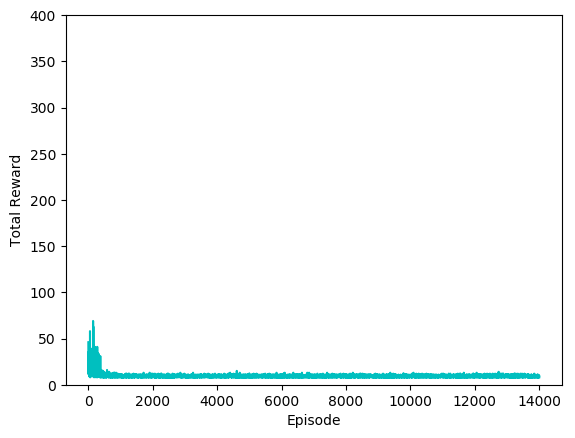
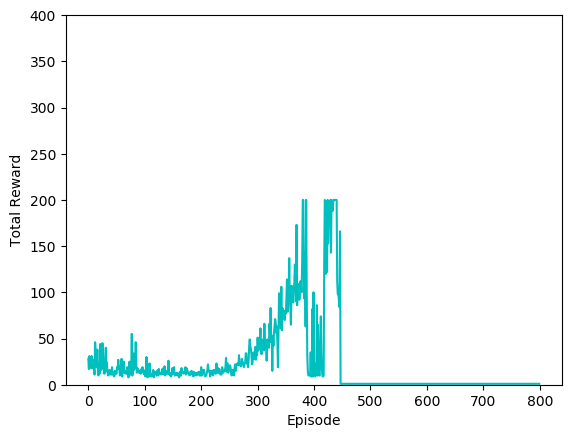
Revert everything into Keras, make sure we can converge

Changed region(s): [[0.1478, 0.4452, 0.9757, 0.9498]]

diff --git a/dqn/components/agent.py b/dqn/components/agent.py
@@ -4,7 +4,7 @@ import numpy as np
 from torch import Tensor, LongTensor
 
 from components.memory import ExperienceReplayBuffer
-from components.brain import Brain
+from components.brain import Brain, Keras_Brain
 
 GAMMA = 0.99
 EPSILON_START = 1.0
@@ -26,7 +26,7 @@ class Agent:
     self.use_target = True
     self.learning_rate = config['learning_rate']
 
-    self.brain = Brain(num_states, num_actions, config)
+    self.brain = Keras_Brain(num_states, num_actions, config)
     self.memory = ExperienceReplayBuffer(MEMORY_CAPACITY)
 
   @staticmethod
@@ -43,6 +43,10 @@ class Agent:
       random_action = random.randrange(self.num_actions)
       return random_action
     else:
+      q_val_per_action = self.brain.predict_one(state)
+      return np.argmax(q_val_per_action)
+    '''
+    else:
       current_state = Tensor(state).unsqueeze(0)
       q_val_per_action = self.brain.main_network(current_state)
       # recall that max() returns tuple of (max_value, max_index)
@@ -51,12 +55,90 @@ class Agent:
 
   def observe(self, *episode):
     self.memory.remember(*episode)  #(s, a, r, s') + done
+    '''
 
-    if self.use_target and (self.steps % UPDATE_TARGET_FREQUENCY == 0):
+  def observe(self, episode):
+    self.memory.keras_remember(episode)  #(s, a, r, s') + done
+
+    if self.steps % UPDATE_TARGET_FREQUENCY == 0:
         self.brain.update_target_network()
 
     self.steps += 1.0   # anneal epsilon
     self.epsilon = EPSILON_END + (EPSILON_START - EPSILON_END) * math.exp(-self.steps / EPSILON_DECAY)
+
+  # Q(s, a) = reward + GAMMA * argmax[ Q(s', a) ]
+  # Note how the formula requires Q-scores for current and next state
+
+  # In a neural network, each Q-score is actually a vector of numbers
+  # where the dimension = (1 x num_actions)
+
+  def keras_learn(self):
+    batch = self.memory.keras_get_batch(BATCH_SIZE)
+
+    batch_length = len(batch)
+    # Q(s, a) predictions per action given the current state
+    current_states = np.array([ o[0] for o in batch ])
+    predicted_Q_score = self.brain.predict(current_states)
+    # Q(s', a) predictions per action given the next state
+    empty = np.zeros(self.num_states)
+    next_states = np.array([ (empty if o[3] is None else o[3]) for o in batch ])
+    # double_Q_score = self.brain.predict(next_states, target=False)
+    future_Q_score = self.brain.predict(next_states, target=self.use_target)
+
+    # the inputs into our neural network, which are the set of states
+    x = np.zeros((batch_length, self.num_states))
+    # the target labels we want to predict, which are the set of actions
+    y = np.zeros((batch_length, self.num_actions))
+    # Errors used for calculating priority experience replay
+    errors = np.zeros(batch_length)
+
+    for idx, episode in enumerate(batch):
+      current_state, action, reward, next_state = episode
+      # by default we are correct, so initialize our target to be our prediction
+      targets = predicted_Q_score[idx]
+      old_value = targets[action]
+      # we have an actual reward signal for one particular action
+      # so update the target Q-score for that specific action
+      if next_state is None:
+        # then game_over, so no future reward
+        targets[action] = reward
+      elif self.name == 'double_dqn':
+        selected_action = np.argmax(double_Q_score[idx])
+        targets[action] = reward + GAMMA * future_Q_score[idx][ selected_action ]
+      else:
+        # current reward plus discounted future reward
+        targets[action] = reward + GAMMA * np.amax(future_Q_score[idx])
+
+      x[idx] = current_state
+      y[idx] = targets  # Q-scores per action
+      errors[idx] = abs(targets[action] - old_value)
+
+    self.brain.train(x, y)
+
+    return (x, y, errors)
+    '''
+    for idx, episode in enumerate(batch):
+      current_state, action, reward, next_state = episode
+      # we have an actual reward signal for one particular action
+      # so update the target Q-score for that specific action
+      if next_state is None:
+        # then game_over, so no future reward
+        target = reward
+      elif self.name == 'double_dqn':
+        selected_action = np.argmax(double_Q_score[idx])
+        target = reward + GAMMA * future_Q_score[idx][ selected_action ]
+      else:
+        # current reward plus discounted future reward
+        target = reward + GAMMA * np.amax(future_Q_score[idx])
+
+      x[idx] = current_state
+      # the label is the same as your predicted Q-scores per action
+      y[idx] = predicted_Q_score[idx]
+      # except that for the particular action you took, you can have a more accurate
+      #   measure of the expected reward because you experienced that outcome
+      y[idx][action] = target
+      errors[idx] = abs(predicted_Q_score[idx][action] - target)
+    '''
 
   def learn(self):
     # Each item is a vector/array with length equal to batch size
@@ -94,79 +176,11 @@ class RandomActor:
   def act(self, s):
     return random.randint(0, self.num_actions-1)
 
-  def observe(self, *episode):  # in (s, a, r, s_) format
-    self.memory.remember(*episode)
+  # def observe(self, *episode):  # in (s, a, r, s_) format
+  #   self.memory.remember(*episode)
+  def observe(self, sample):
+    self.memory.keras_remember(sample)
 
   def learn(self):
     pass  # since this agent will always act randomly
 
-'''
-# Q(s, a) = reward + GAMMA * argmax[ Q(s', a) ]
-# Note how the formula requires Q-scores for current and next state
-
-# In a neural network, each Q-score is actually a vector of numbers
-# where the dimension = (1 x num_actions)
-
-def gather_targets(self, batch):
-  batch_length = len(batch)
-  # Q(s, a) predictions per action given the current state
-  current_states = np.array([ o[0] for o in batch ])
-  predicted_Q_score = self.brain.predict(current_states)
-  # Q(s', a) predictions per action given the next state
-  empty = np.zeros(self.num_states)
-  next_states = np.array([ (empty if o[3] is None else o[3]) for o in batch ])
-  # double_Q_score = self.brain.predict(next_states, target=False)
-  future_Q_score = self.brain.predict(next_states, target=self.use_target)
-
-  # the inputs into our neural network, which are the set of states
-  x = np.zeros((batch_length, self.num_states))
-  # the target labels we want to predict, which are the set of actions
-  y = np.zeros((batch_length, self.num_actions))
-  # Errors used for calculating priority experience replay
-  errors = np.zeros(batch_length)
-
-  for idx, episode in enumerate(batch):
-    current_state, action, reward, next_state = episode
-    # by default we are correct, so initialize our target to be our prediction
-    targets = predicted_Q_score[idx]
-    old_value = targets[action]
-    # we have an actual reward signal for one particular action
-    # so update the target Q-score for that specific action
-    if next_state is None:
-      # then game_over, so no future reward
-      targets[action] = reward
-    elif self.name == 'double_dqn':
-      selected_action = np.argmax(double_Q_score[idx])
-      targets[action] = reward + GAMMA * future_Q_score[idx][ selected_action ]
-    else:
-      # current reward plus discounted future reward
-      targets[action] = reward + GAMMA * np.amax(future_Q_score[idx])
-
-    x[idx] = current_state
-    y[idx] = targets  # Q-scores per action
-    errors[idx] = abs(targets[action] - old_value)
-
-  return (x, y, errors)
-
-  for idx, episode in enumerate(batch):
-    current_state, action, reward, next_state = episode
-    # we have an actual reward signal for one particular action
-    # so update the target Q-score for that specific action
-    if next_state is None:
-      # then game_over, so no future reward
-      target = reward
-    elif self.name == 'double_dqn':
-      selected_action = np.argmax(double_Q_score[idx])
-      target = reward + GAMMA * future_Q_score[idx][ selected_action ]
-    else:
-      # current reward plus discounted future reward
-      target = reward + GAMMA * np.amax(future_Q_score[idx])
-
-    x[idx] = current_state
-    # the label is the same as your predicted Q-scores per action
-    y[idx] = predicted_Q_score[idx]
-    # except that for the particular action you took, you can have a more accurate
-    #   measure of the expected reward because you experienced that outcome
-    y[idx][action] = target
-    errors[idx] = abs(predicted_Q_score[idx][action] - target)
-'''

diff --git a/dqn/components/brain.py b/dqn/components/brain.py
@@ -1,11 +1,11 @@
-# from keras.models import Sequential
-# from keras.layers import *
-# from keras.optimizers import *
-# from keras import backend as K
+from keras.models import Sequential
+from keras.layers import *
+from keras.optimizers import *
+from keras import backend as K
 
-# import os
-# os.environ['TF_CPP_MIN_LOG_LEVEL'] = '3'
-# import tensorflow as tf
+import os
+os.environ['TF_CPP_MIN_LOG_LEVEL'] = '3'
+import tensorflow as tf
 
 import pdb
 import torch
@@ -58,12 +58,13 @@ class Q_Network(nn.Module):
     x = torch.sigmoid(self.fc3(x))  # or torch.softmax for multi-category
     return x
 
-class Keras_Q_Network:
+class Keras_Brain:
   def __init__(self, num_states, num_actions, config):
     self.num_states = num_states
     self.num_actions = num_actions
     self.learning_rate = config['learning_rate']
     self.main_network = self._create_model()
+    self.target_network = self._create_model()
 
   def _create_model(self):
     model = Sequential()
@@ -71,7 +72,7 @@ class Keras_Q_Network:
     model.add(Dense(units=self.num_actions, activation='linear'))
 
     opt = RMSprop(lr=self.learning_rate)
-    loss_func = huber_loss if self.use_target else 'mse'
+    loss_func = huber_loss # 'mse'
     model.compile(loss=loss_func, optimizer=opt)
 
     return model

diff --git a/dqn/run.py b/dqn/run.py
@@ -58,7 +58,7 @@ if __name__ == "__main__":
       agent = world.run_episode(agent)
       average = world.calculate_average()
 
-      if episode%120 == 0: #  and (agent.name != "random"):
+      if episode%50 == 0: #  and (agent.name != "random"):
         print("Ep {0}) reward: {1}, average: {2:.2f}".format(episode, \
             world.all_rewards[-1], average))
       if average > 100.0:
@@ -67,7 +67,7 @@ if __name__ == "__main__":
         world.all_rewards.extend([1] * remaining)
         break
 
-    print("Final average: {:.3f}".format(sum(world.all_rewards) / float(len(world.all_rewards))))
+    # print("Final average: {:.3f}".format(sum(world.all_rewards) / float(len(world.all_rewards))))
     artist.draw(world.all_rewards)
     if args.num_runs > 1:
       universal_rewards += np.array(world.all_rewards)

diff --git a/dqn/components/memory.py b/dqn/components/memory.py
@@ -18,6 +18,13 @@ class ExperienceReplayBuffer:   # stored as ( s, a, r, s'_ )
         sample = (state, action, reward, next_state, done)
         self.buffer.append(sample)
 
+    def keras_remember(self, sample):
+        self.buffer.append(sample)
+
+    def keras_get_batch(self, batch_size):
+        num_samples = min(batch_size, len(self.buffer))
+        return random.sample(self.buffer, num_samples)
+
     def get_batch(self, batch_size):
         num_samples = min(batch_size, len(self.buffer))
         state, action, reward, next_state, done = zip(*random.sample(self.buffer, num_samples))

diff --git a/dqn/components/world.py b/dqn/components/world.py
@@ -22,9 +22,11 @@ class World:
       # self.environment.render()
       action = agent.act(current_state)
       next_state, reward, done, _ = self.environment.step(action)
+      next_state = None if done else next_state
 
-      agent.observe(current_state, action, reward, next_state, done)
-      agent.learn()
+      agent.observe((current_state, action, reward, next_state))
+      # agent.observe(current_state, action, reward, next_state, done)
+      agent.keras_learn()
 
       current_state = next_state
       total_reward += reward
